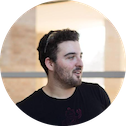
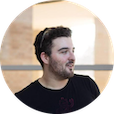
many updates

diff --git a/index.html b/index.html
@@ -20,12 +20,12 @@
 				<!-- Header -->
 					<header id="header">
 						<div class="logo">
-							<span class="icon img"><img src="images/ivandor_github.png"</span>
+							<span class="icon"><img src="images/ivandor_github.png"</span>
 						</div>
 						<div class="content">
 							<div class="inner">
 								<h1>Isaac Vandor</h1>
-								<p>Robotics Software Engineer at <a href="https://whoi.edu/">Woods Hole Oceanographic Institution</a><br />
+								<p>Robotics Software Engineer at <a href="https://ndsf.whoi.edu/">Woods Hole Oceanographic Institution</a><br />
 								My research interests: Autonomous navigation, Reinforcement Learning, Sensor Fusion</p>
 							</div>
 						</div>
@@ -46,7 +46,7 @@
 							<article id="intro">
 								<h2 class="major">Intro</h2>
 								<span class="image main"><img src="images/ivandor_sentryRecovery.jpeg" alt="" /></span>
-								<p>I am a Robotics Software Engineer in the Deep Submergence Lab at Woods Hole Oceanographic Institution. I am the lead developer and maintainer for WHOIDSL software, with code running on HOV Alvin, ROV JASON, and AUV Sentry. I design and develop new capabilities for our ROS software ecosystem in addition to GUIs and other tools for operator interaction. By the way, check out my <a href="../isaacvandor.github.io/Ivandor_Resume_20241121.pdf">work</a>.</p>
+								<p>I am currently a Robotics Software Engineer in the Deep Submergence Lab at Woods Hole Oceanographic Institution. I am the lead developer and maintainer for WHOIDSL software, with code running on HOV Alvin, ROV JASON, and AUV Sentry.</p> <p>I design and develop new capabilities for our ROS software ecosystem in addition to GUIs and other tools for operator interaction.i</p> <p>Check out my <a href="../isaacvandor.github.io/Ivandor_Resume_20241121.pdf">Resume</a>.</p>
 							</article>
 
 						<!-- Work -->
@@ -348,7 +348,7 @@ print 'It took ' + i + ' iterations to sort the deck.';</code></pre>
 			</div>
 
 		<!-- BG -->
-			<div id="ivandor_jasonControlRoom"></div>
+			<div id="bg"></div>
 
 		<!-- Scripts -->
 			<script src="assets/js/jquery.min.js"></script>

diff --git a/assets/css/main.css b/assets/css/main.css
@@ -1291,7 +1291,8 @@ input, select, textarea {
 			width: 5.5rem;
 			height: 5.5rem;
 			line-height: 5.5rem;
-			border: solid 1px #ffffff;
+			#border: solid 1px #ffffff;
+			border: none
 			border-radius: 100%;
 		}
 
